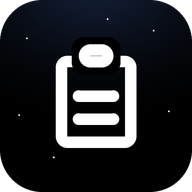
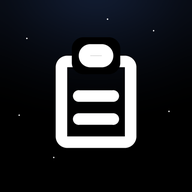
Ícones dos apps instaláveis sem cantos transparentes (macOS punha moldura clara)
Os ícones 'any' (192/512) vinham com cantos arredondados e transparentes; o
macOS recente põe ícone fora do formato padrão dentro de uma placa clara.
Agora são quadrados cheios (o sistema arredonda), montados sobre o fundo do
maskable. Manifestos apontam para ?v=2; sw.js v770.

diff --git a/sw.js b/sw.js
@@ -1,7 +1,7 @@
 /* MedTech Portal — service worker (PWA instalável).
    Network-first no shell do portal; cache só como fallback offline.
    NÃO intercepta apps externos (.web.app) nem APIs (origem diferente). */
-const CACHE = 'medtech-v769';
+const CACHE = 'medtech-v770';
 const SHELL = [
   './app.html',
   './provas.html',
